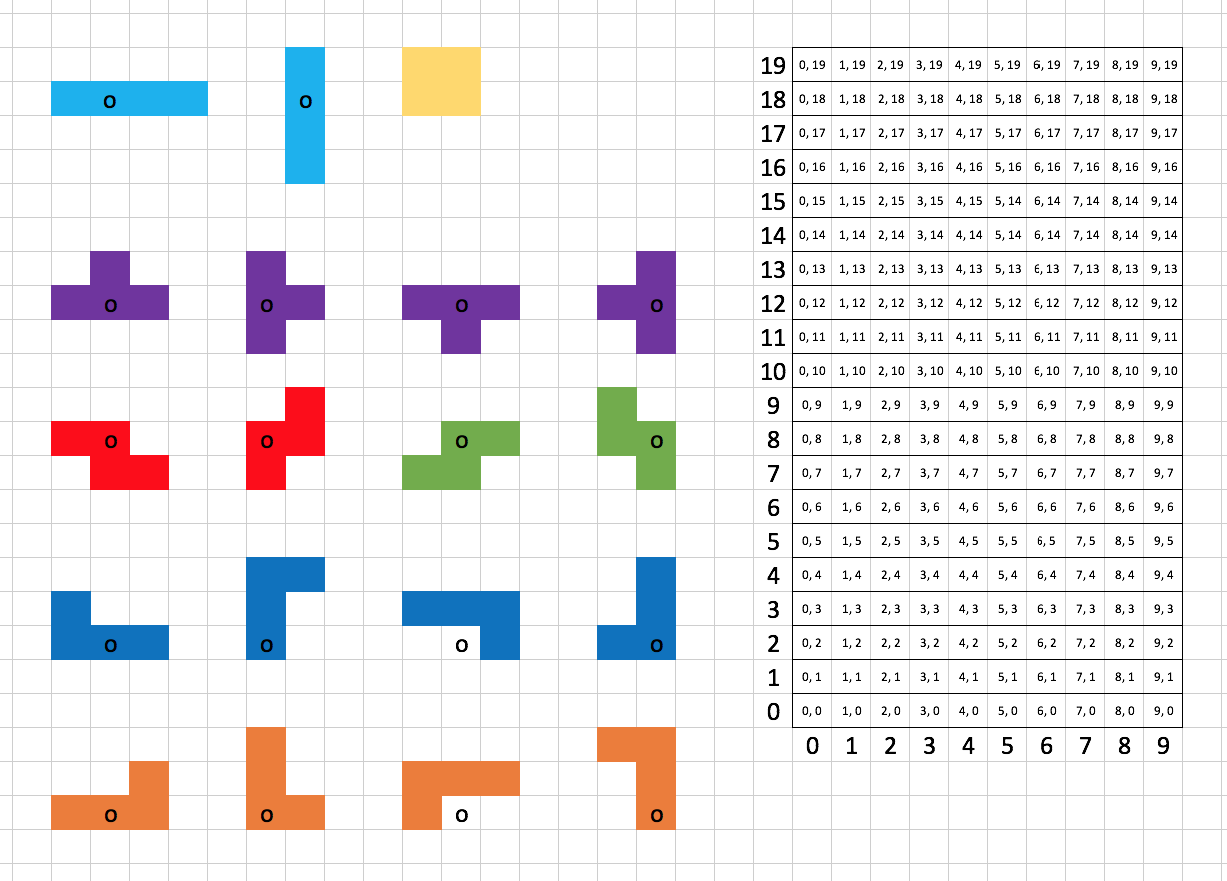
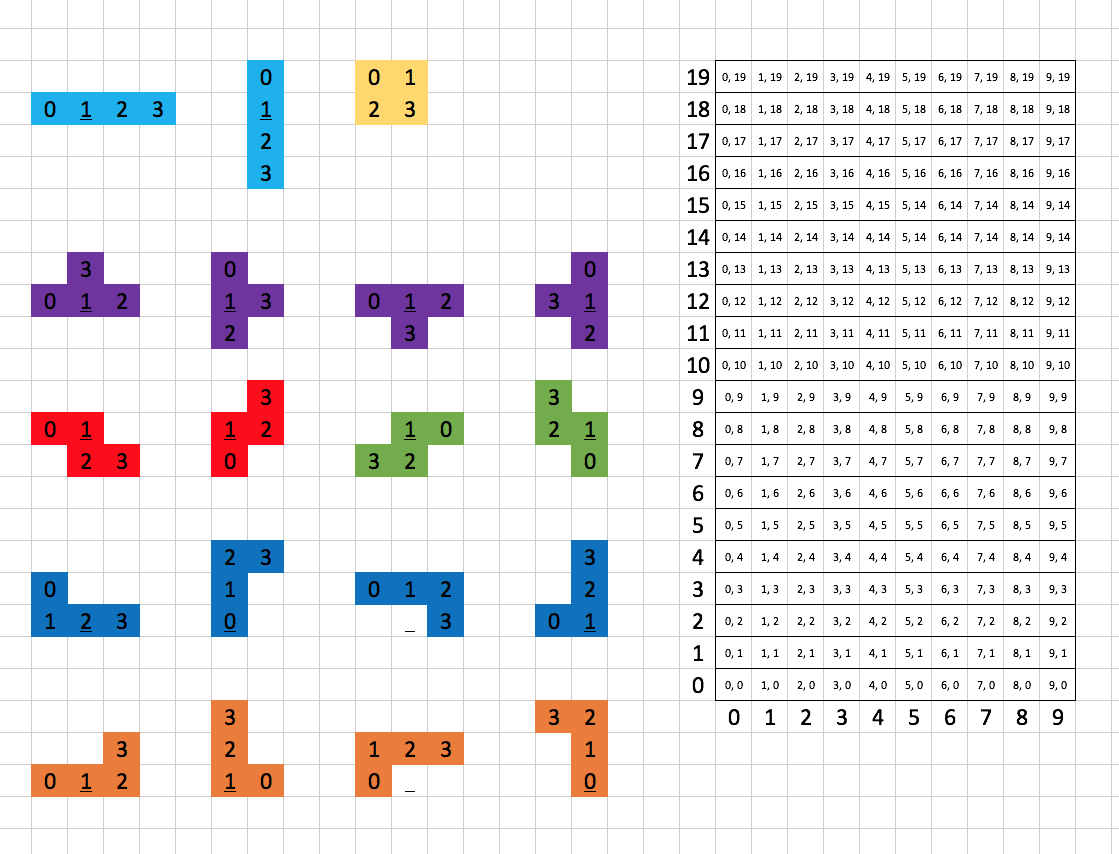
refactor(tetrominos): change the way new piece's positions are determined to hard coded translations

diff --git a/tetrominos/operations_test.go b/tetrominos/operations_test.go
@@ -6,33 +6,27 @@ import (
 )
 
 func TestRotate(t *testing.T) {
-	data := []struct {
-		in  []Coords
-		out []Coords
-	}{
-		{
-			[]Coords{{5, 14}, {6, 14}, {5, 13}, {6, 13}, {4, 13}, {4, 14}, {5, 15}, {6, 15}, {7, 13}, {7, 14}},
-			[]Coords{{5, 14}, {5, 13}, {6, 13}, {6, 14}, {6, 12}, {5, 12}, {4, 13}, {4, 14}, {6, 15}, {5, 15}},
-		},
-		{
-			[]Coords{{5, 14}, {5, 13}, {6, 13}, {6, 14}, {6, 12}, {5, 12}, {4, 13}, {4, 14}, {6, 15}, {5, 15}},
-			[]Coords{{5, 14}, {6, 13}, {6, 14}, {5, 13}, {7, 14}, {7, 13}, {6, 12}, {5, 12}, {4, 14}, {4, 13}},
-		},
-		{
-			[]Coords{{5, 14}, {6, 13}, {6, 14}, {5, 13}, {7, 14}, {7, 13}, {6, 12}, {5, 12}, {4, 14}, {4, 13}},
-			[]Coords{{5, 14}, {6, 14}, {5, 13}, {6, 13}, {5, 15}, {6, 15}, {7, 14}, {7, 13}, {5, 12}, {6, 12}},
-		},
-		{
-			[]Coords{{5, 14}, {6, 14}, {5, 13}, {6, 13}, {5, 15}, {6, 15}, {7, 14}, {7, 13}, {5, 12}, {6, 12}},
-			[]Coords{{5, 14}, {5, 13}, {6, 13}, {6, 14}, {4, 13}, {4, 14}, {5, 15}, {6, 15}, {7, 13}, {7, 14}},
-		},
+	shape := T(Coords{4, 10})
+	expectedCoords := [][]Coords{
+		[]Coords{Coords{5, 11}, Coords{5, 10}, Coords{5, 9}, Coords{6, 10}},
+		[]Coords{Coords{4, 10}, Coords{5, 10}, Coords{6, 10}, Coords{5, 9}},
+		[]Coords{Coords{5, 11}, Coords{5, 10}, Coords{5, 9}, Coords{4, 10}},
+		[]Coords{Coords{4, 10}, Coords{5, 10}, Coords{6, 10}, Coords{5, 11}},
 	}
 
-	for _, d := range data {
-		shape := &shapeT{d.in}
+	for i := 0; i < len(expectedCoords); i++ {
 		Rotate(shape)
-		if reflect.DeepEqual(shape.parts, d.out) == false {
-			t.Errorf("shape.parts == %v, expected %v", shape.parts, d.out)
+		if reflect.DeepEqual(shape.parts, expectedCoords[i]) == false {
+			t.Errorf("rotation nb %v : shape.parts == %v, expected %v", i+1, shape.parts, expectedCoords[i])
 		}
+	}
+}
+
+func TestMoveDown(t *testing.T) {
+	shape := T(Coords{4, 10})
+	out := []Coords{Coords{4, 9}, Coords{5, 9}, Coords{6, 9}, Coords{5, 10}}
+	MoveDown(shape)
+	if reflect.DeepEqual(shape.parts, out) == false {
+		t.Errorf("shape.parts == %v, expected %v", shape.parts, out)
 	}
 }

diff --git a/main.go b/main.go
@@ -2,28 +2,76 @@ package main
 
 import (
 	"fmt"
+	"github.com/aubm/gotris/tetrominos"
+	"os"
+	"os/exec"
+	"time"
 )
 
-/*type playfield struct {
-	Width       int
-	Height      int
-	activePiece piece
-	cels        [tetrominos.Coords]int
+type playfield struct {
+	piece  *tetrominos.Tetromino
+	width  int
+	height int
 }
 
-func (p *playfield) SetActivePiece(a piece) {
-	p.activePiece = a
-}
-
-func (p playfield) At(c Coords) int {
+func (p playfield) At(c tetrominos.Coords) int {
+	for _, part := range p.piece.Parts() {
+		if part.X == c.X && part.Y == c.Y {
+			return 1
+		}
+	}
 	return -1
 }
 
-func NewStdPlayfield() playfield {
-	return playfield{Width: 10, Height: 20, cels: make(map[tetrominos.Coords]int)}
+func newStdPlayfield() playfield {
+	return playfield{width: 10, height: 20}
 }
-*/
 
 func main() {
-	fmt.Println("The tetris game of your life ...")
+	p := newStdPlayfield()
+	p.piece = tetrominos.T(tetrominos.Coords{3, 18})
+
+	draw(p)
+	sleep()
+	tetrominos.MoveDown(p.piece)
+	draw(p)
+	sleep()
+	tetrominos.Rotate(p.piece)
+	draw(p)
+	sleep()
+	tetrominos.Rotate(p.piece)
+	draw(p)
+	sleep()
+	tetrominos.Rotate(p.piece)
+	draw(p)
+	sleep()
+	tetrominos.Rotate(p.piece)
+	draw(p)
+	sleep()
+}
+
+func sleep() {
+	d, _ := time.ParseDuration("1s")
+	time.Sleep(d)
+}
+
+func clear() {
+	cmd := exec.Command("clear")
+	cmd.Stdout = os.Stdout
+	cmd.Run()
+}
+
+func draw(p playfield) {
+	clear()
+	for y := p.height - 1; y >= 0; y-- {
+		for x := 0; x < p.width; x++ {
+			if p.At(tetrominos.Coords{x, y}) == 1 {
+				fmt.Print("o ")
+			} else {
+				fmt.Print("- ")
+			}
+		}
+		fmt.Print("\n")
+	}
+	fmt.Print("\n\n")
 }

diff --git a/tetrominos/tetrominos.go b/tetrominos/tetrominos.go
@@ -1,42 +1,31 @@
 package tetrominos
 
-// Tetromino represents four parts that form a
-// piece of the game
-type Tetromino interface {
-	Parts() []Coords
-	SetParts(parts []Coords)
-}
-
 // Coords represents a pair of cartesian coordinates
 type Coords struct {
 	X int
 	Y int
 }
 
-type shapeT struct {
-	parts []Coords
+// Tetromino represents parts that form a piece of the game
+type Tetromino struct {
+	parts        []Coords
+	translations [][]Coords
 }
 
-func (s shapeT) Parts() []Coords {
-	return s.parts
-}
-
-func (s *shapeT) SetParts(parts []Coords) {
-	s.parts = parts
+// Parts returns parts that compose the tetromino
+func (t Tetromino) Parts() []Coords {
+	return t.parts
 }
 
 // T returns a specific implementation of a Tetromino
-func T(center Coords) Tetromino {
-	return &shapeT{[]Coords{
-		center,
-		Coords{center.X + 1, center.Y},
-		Coords{center.X, center.Y - 1},
-		Coords{center.X + 1, center.Y - 1},
-		Coords{center.X - 1, center.Y - 1},
-		Coords{center.X - 1, center.Y},
-		Coords{center.X, center.Y + 1},
-		Coords{center.X + 1, center.Y + 1},
-		Coords{center.X + 2, center.Y - 1},
-		Coords{center.X + 2, center.Y},
-	}}
+func T(fp Coords) *Tetromino {
+	return &Tetromino{
+		parts: []Coords{fp, Coords{fp.X + 1, fp.Y}, Coords{fp.X + 2, fp.Y}, Coords{fp.X + 1, fp.Y + 1}},
+		translations: [][]Coords{
+			{Coords{1, 1}, Coords{0, 0}, Coords{-1, -1}, Coords{1, -1}},
+			{Coords{-1, -1}, Coords{0, 0}, Coords{1, 1}, Coords{-1, -1}},
+			{Coords{1, 1}, Coords{0, 0}, Coords{-1, -1}, Coords{-1, 1}},
+			{Coords{-1, -1}, Coords{0, 0}, Coords{1, 1}, Coords{1, 1}},
+		},
+	}
 }

diff --git a/tetrominos/operations.go b/tetrominos/operations.go
@@ -1,47 +1,18 @@
 package tetrominos
 
-// Rotate applies a rotation on a tetromino and returns
-// a new transformed one
-func Rotate(t Tetromino) {
-	parts := times10(t.Parts())
-	center := parts[0]
-	var newCenterIndex int
-
-	newParts := []Coords{}
-	for i, part := range parts {
-		transformedPart := Coords{
-			(center.X + 5) - part.Y + (center.Y - 5),
-			(center.Y - 5) + part.X - (center.X + 5),
-		}
-		if transformedPart.X == center.X && transformedPart.Y == center.Y {
-			newCenterIndex = i
-		}
-		newParts = append(newParts, transformedPart)
+// Rotate applies a rotation on a tetromino
+func Rotate(t *Tetromino) {
+	for i, trans := range t.translations[0] {
+		t.parts[i].X += trans.X
+		t.parts[i].Y += trans.Y
 	}
-
-	// replace tetromino's center at index 0
-	newParts[0], newParts[newCenterIndex] = newParts[newCenterIndex], newParts[0]
-	t.SetParts(dividePer10(newParts))
+	t.translations = append(t.translations[1:], t.translations[0])
 }
 
 // MoveDown applies a translation of 1 point bottom
-// on a tetromino and returns a new transformed one
-func MoveDown(t Tetromino) Tetromino {
-	return &shapeT{}
-}
-
-func times10(coords []Coords) []Coords {
-	newCoords := []Coords{}
-	for _, c := range coords {
-		newCoords = append(newCoords, Coords{c.X * 10, c.Y * 10})
+// on a tetromino
+func MoveDown(t *Tetromino) {
+	for i := range t.parts {
+		t.parts[i].Y--
 	}
-	return newCoords
-}
-
-func dividePer10(coords []Coords) []Coords {
-	newCoords := []Coords{}
-	for _, c := range coords {
-		newCoords = append(newCoords, Coords{c.X / 10, c.Y / 10})
-	}
-	return newCoords
 }

diff --git a/tetrominos/tetrominos_test.go b/tetrominos/tetrominos_test.go
@@ -5,20 +5,28 @@ import (
 	"testing"
 )
 
+func TestParts(t *testing.T) {
+	out := []Coords{Coords{4, 5}, Coords{5, 6}}
+	shape := Tetromino{parts: out}
+	parts := shape.Parts()
+	if reflect.DeepEqual(parts, out) == false {
+		t.Errorf("parts == %v, expected %v", parts, out)
+	}
+}
+
 func TestT(t *testing.T) {
 	data := []struct {
 		in  Coords
-		out *shapeT
+		out []Coords
 	}{
 		{
-			Coords{5, 14},
-			&shapeT{[]Coords{{5, 14}, {6, 14}, {5, 13}, {6, 13}, {4, 13}, {4, 14}, {5, 15}, {6, 15}, {7, 13}, {7, 14}}},
+			Coords{4, 10},
+			[]Coords{Coords{4, 10}, Coords{5, 10}, Coords{6, 10}, Coords{5, 11}},
 		},
 	}
-
 	for _, d := range data {
-		if out := T(d.in); reflect.DeepEqual(out, d.out) == false {
-			t.Errorf("out == %v, expected %v", out, d.out)
+		if tetro := T(d.in); reflect.DeepEqual(tetro.parts, d.out) == false {
+			t.Errorf("tetro.parts == %v, expected %v", tetro.parts, d.out)
 		}
 	}
 }
